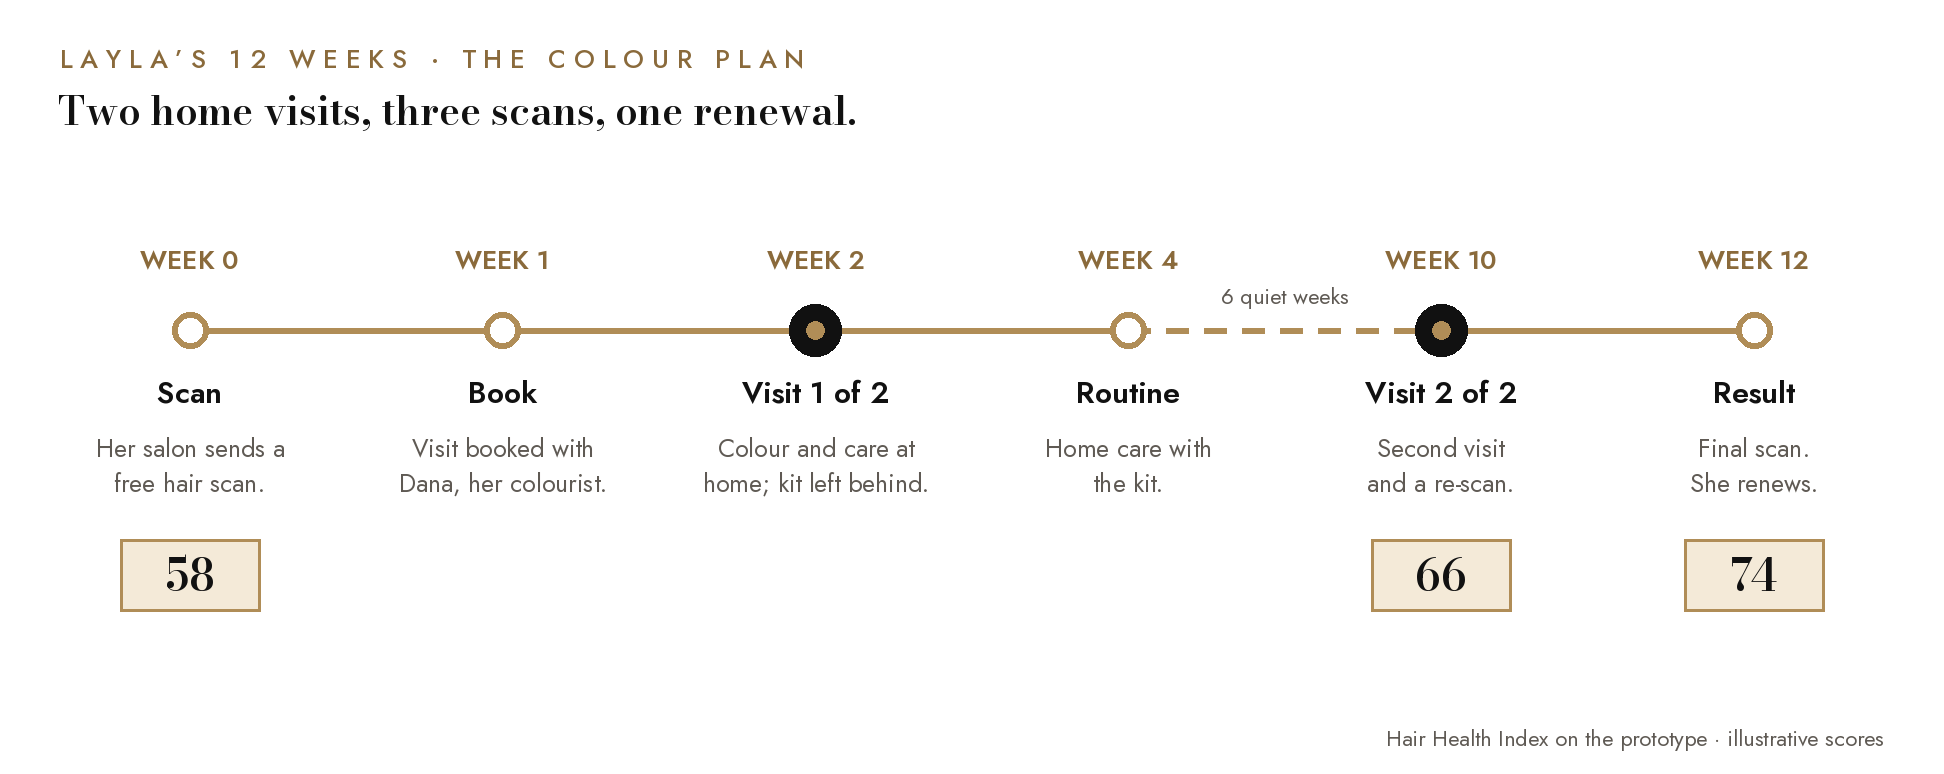
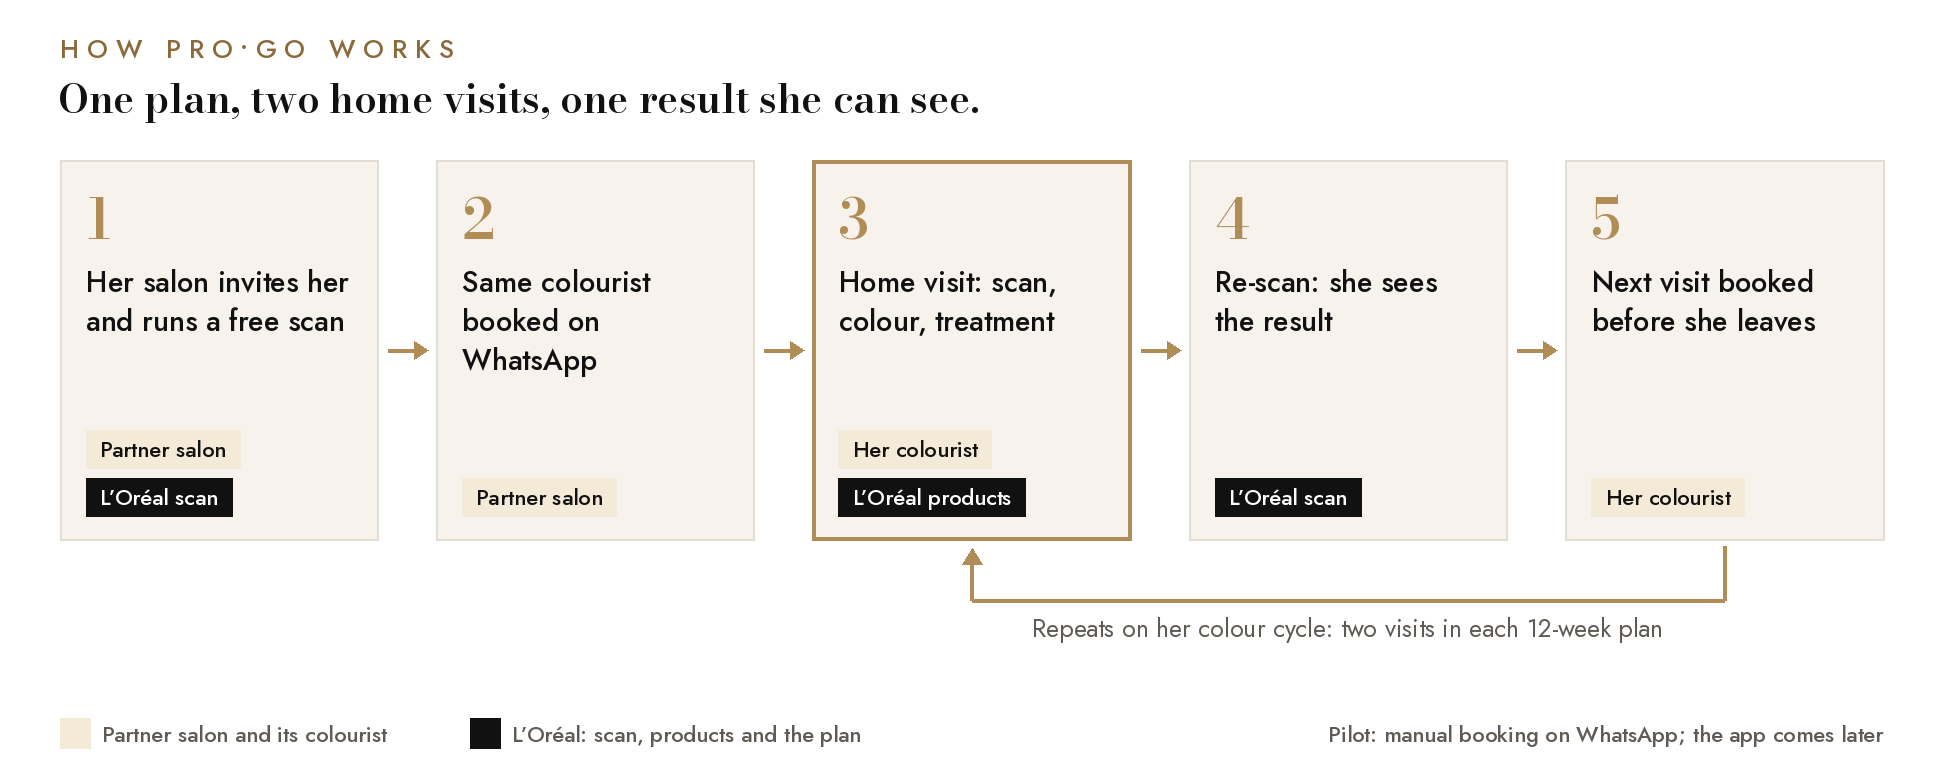
M3 How it works: back to the original five product steps
Claude-Session: https://claude.ai/code/session_01Bmd9orNMq3KMS6rQopEN1z

diff --git a/video/ai-log.md b/video/ai-log.md
@@ -81,7 +81,7 @@ The individual 2-page report is out of scope: no AI is used there.
 |---|---|---|---|---|
 | 22–23 Nov 2026 | Claude Code (cloud session) with the Miro connector | Board clean-up: copy frames removed, frames spaced, film look (ink / ivory / gold), type scale, prompts rewritten for our case, names as in the film credits, per-step headers built from film stills, START HERE team cards and timeline, M1 review fixes, SOURCES strips replacing link post-its, tighter "PROMPT USED" boxes on M1–M5; change list in the board's "Major changes" frame | Ariel's review notes, 22–23 Nov | Miro board, all frames |
 | 23 Nov 2026 | Gemini 3 Pro Image (Google, via Gemini API), run by Claude Code | M1 scenario image "Dana comes to Layla": Dubai apartment at golden hour, Burj Khalifa in the window, Layla seen from behind in an ivory cape, Dana with black gloves sectioning her hair, ivory kit box; no faces; 2 variants, variant 1 chosen. Reference images: three stills from the film (cape shot, Dubai window, Layla at the window) | "Create a photorealistic cinematic still in the exact visual style of the reference frames … a bright, elegant living room in a high-rise apartment in Dubai … LAYLA sits on an ivory armchair, seen from BEHIND … DANA, her professional hair colourist … black nitrile gloves … Her face is NOT visible … No text, no logos" | M1 step 4 (replaces the earlier AI image); caption on the board says "AI image inspired by our film"; files `miro/m1_dana_layla_raw.jpg`, `miro/m1_dana_layla_card.jpg` |
-| 23 Nov 2026 | Gemini 3 Pro Image (Google, via Gemini API), run by Claude Code | M3 product image "Layla scans her hair at home": Layla from behind by the window in Dubai, phone held to her hair showing a plain scan screen (no text), Burj Khalifa in the haze; no faces; 2 variants, variant 2 chosen. A first image (Dana colouring Layla) was replaced because it repeated the M1 image. References: Layla-at-the-window and scan stills from the film, and the M1 image | "…LAYLA … stands by the large window of her Dubai apartment … seen from behind … She holds her smartphone close to the lengths of her hair, scanning it … No faces, no text, no logos" | M3 step 2, next to the prototype screen; `miro/m3_layla_scan.jpg`. The "How it works" 12-week diagram (`miro/m3_how_it_works.png`) was drawn with code, not generated |
+| 23 Nov 2026 | Gemini 3 Pro Image (Google, via Gemini API), run by Claude Code | M3 product image "Layla scans her hair at home": Layla from behind by the window in Dubai, phone held to her hair showing a plain scan screen (no text), Burj Khalifa in the haze; no faces; 2 variants, variant 2 chosen. A first image (Dana colouring Layla) was replaced because it repeated the M1 image. References: Layla-at-the-window and scan stills from the film, and the M1 image | "…LAYLA … stands by the large window of her Dubai apartment … seen from behind … She holds her smartphone close to the lengths of her hair, scanning it … No faces, no text, no logos" | M3 step 2, next to the prototype screen; `miro/m3_layla_scan.jpg`. The "How it works" five-step diagram (the original M3 steps) (`miro/m3_how_it_works.png`) was drawn with code, not generated |
 
 
 ## Layla scene prompts (full text in `layla-prompts.md`)
